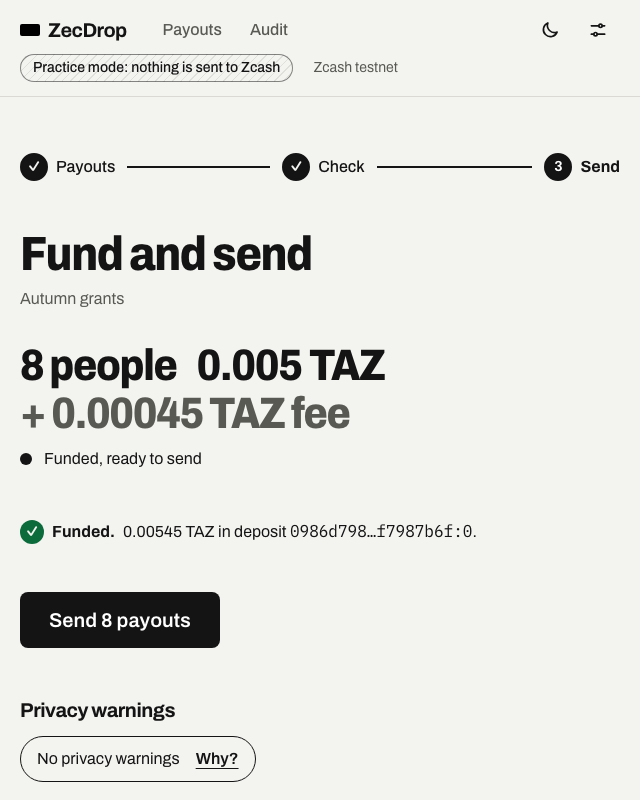
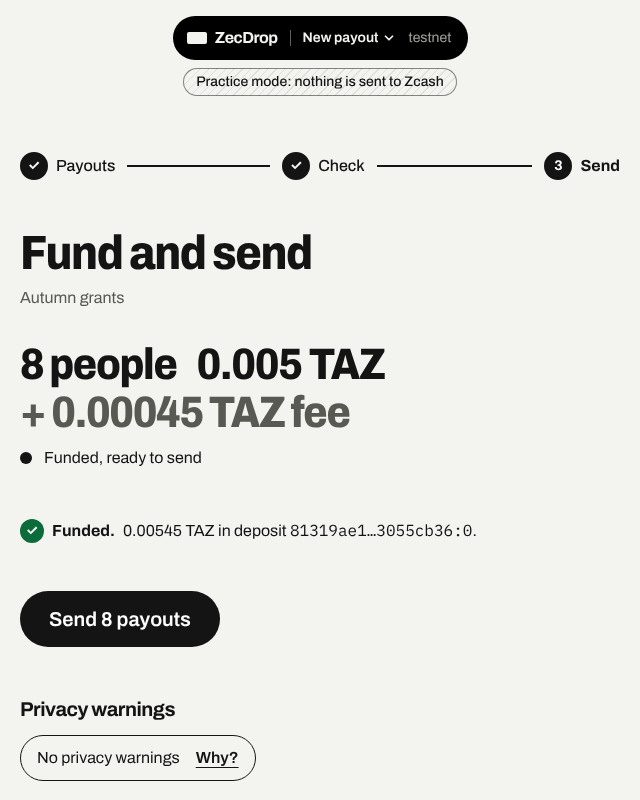
chore(web): take the tour's pictures again, with the capsule
The sixteen pictures in public/tour/ still showed the old full-width header. They
are taken again with e2e/operator/tour-shots.spec.ts, which now leaves the screen's
frame and the paper's grain out of them: they are pictures of the operator's
screens, and the page they sit on has a frame of its own. Same sizes, so the page
holds the same space.

diff --git a/web/e2e/operator/tour-shots.spec.ts b/web/e2e/operator/tour-shots.spec.ts
@@ -99,6 +99,11 @@ async function shoot(page: Page, id: string, look: TourLook, options: { viewport
   await page.evaluate(async () => {
     await document.fonts.ready;
     window.scrollTo(0, 0);
+    // The pictures are of the operator's screens, shown on a page that has a screen frame and a paper grain of its own: leave both
+    // out of them (a frame inside a frame is no help, and lossless WebP of a faint speckle is many times the size). Through the
+    // CSSOM, which the operator's Content-Security-Policy allows, and not by a style element, which it refuses.
+    document.documentElement.style.setProperty("--grain-opacity", "0");
+    for (const frame of document.querySelectorAll<HTMLElement>(".screen-frame")) frame.style.display = "none";
   });
   // No row under the pointer, so none is tinted.
   await page.mouse.move(2, 2);
